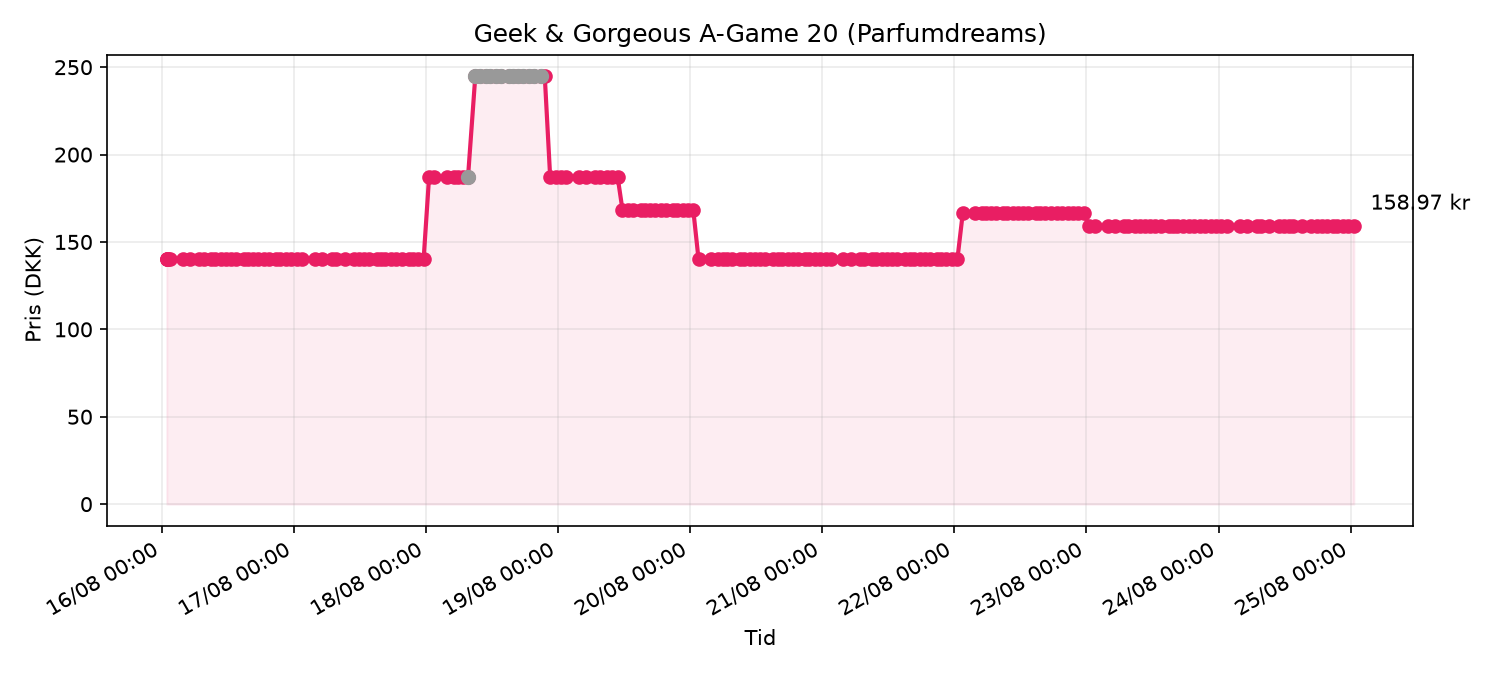
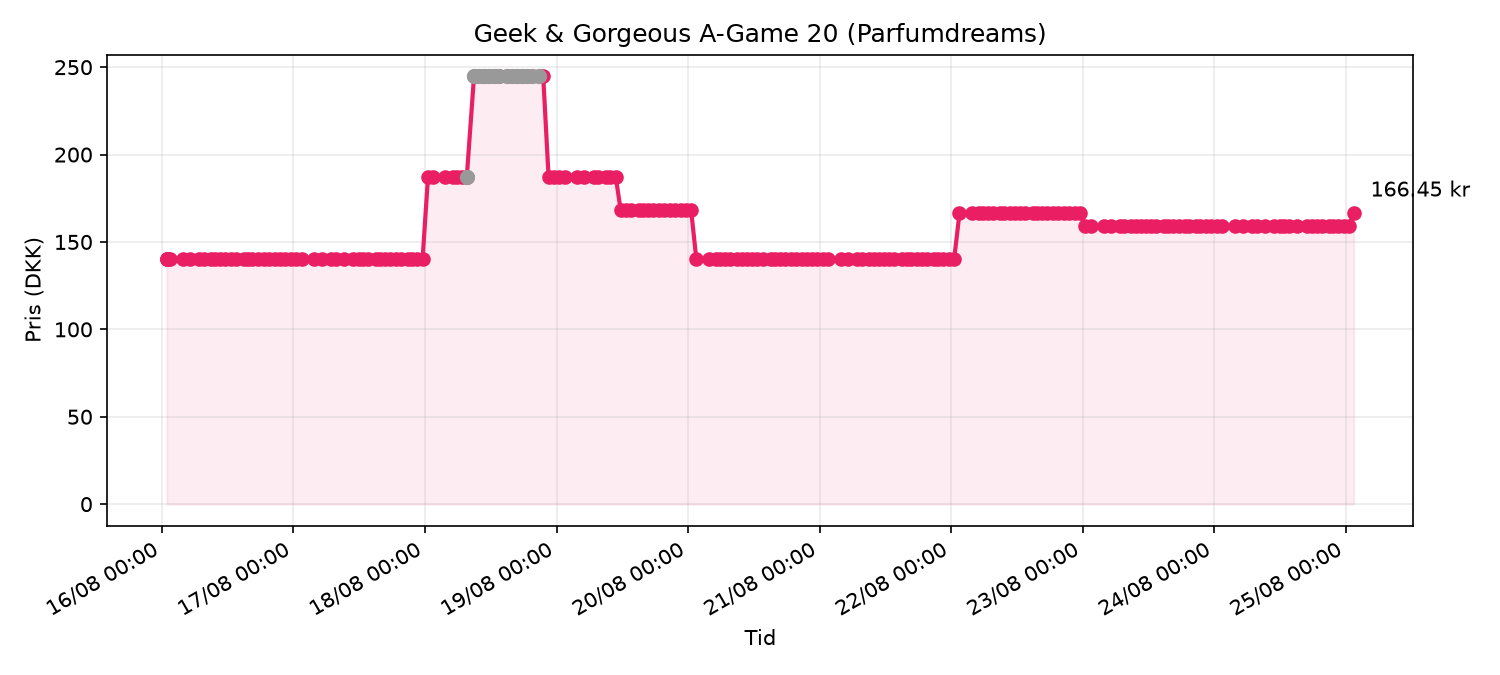
price check 2026-08-24T23:28Z

diff --git a/data/price_chart.html b/data/price_chart.html
@@ -13,7 +13,7 @@
 </head>
 <body>
   <h1>Geek & Gorgeous A-Game 20 (Parfumdreams)</h1>
-  <p class="meta">Senest tjekket: 25/08/2026 00:35 · Pris: <strong>158.97 kr</strong> · på lager</p>
+  <p class="meta">Senest tjekket: 25/08/2026 01:28 · Pris: <strong>166.45 kr</strong> · på lager</p>
   
   <p><a href="https://www.parfumdreams.dk/Geek-Gorgeous/Samlinger/101-aktive-stoffer/A-Game-20-Serum/index_137083.aspx?variation=221879">Åbn produkt på Parfumdreams</a></p>
   <img src="price_chart.png" alt="Prisgraf">
